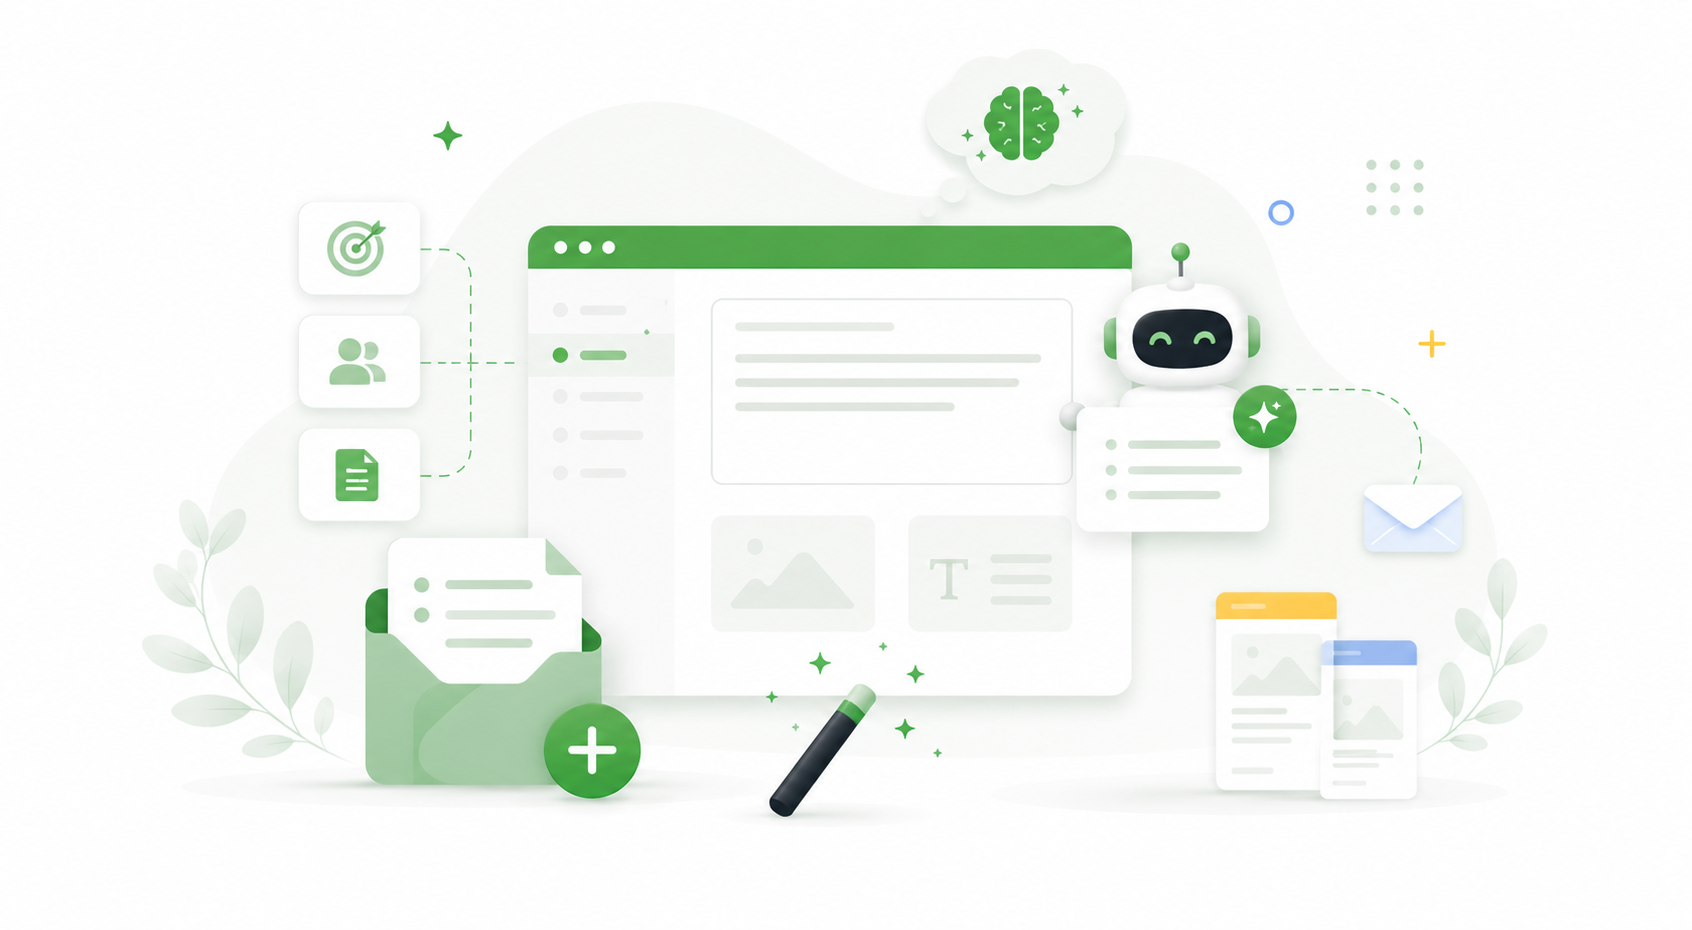
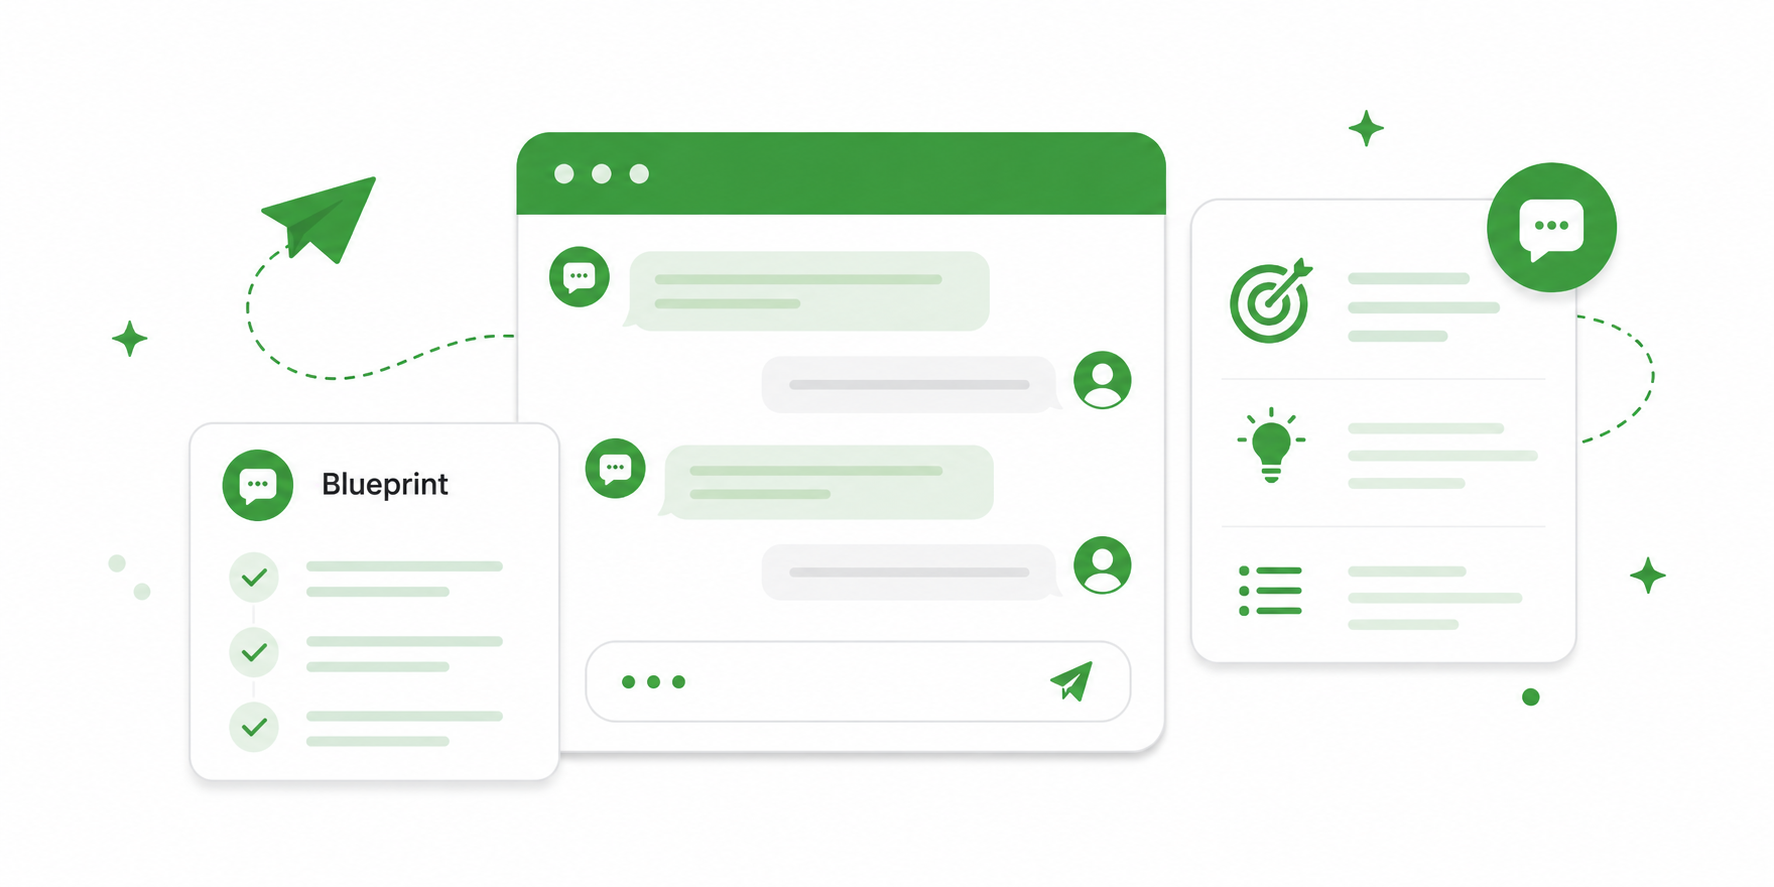
fix: update image imports for user blueprints in CampaignManagement and Template components

diff --git a/src/components/feature/CampaignManagement.tsx b/src/components/feature/CampaignManagement.tsx
@@ -11,7 +11,7 @@ import CommonSidePanel from "../common/CommonSidePanel";
 import { closePanel, openPanel } from "../../slices/panelSlice";
 import "./blueprint/Template.new.css";
 import { BpBanner } from "./blueprint/BpBanner";
-import campaignIllustration from "../../assets/images/campaign-illustration.png";
+import campaignIllustration from "../../assets/images/Campgains_old_user.png";
 import campaignIllustration2 from "../../assets/images/Campgains_old_user.png";
 import { FontAwesomeIcon } from "@fortawesome/react-fontawesome";
 import { faPlay, faArrowUpRightFromSquare } from "@fortawesome/free-solid-svg-icons";
@@ -61,7 +61,7 @@ interface Prompt {
 }
 
 interface Campaign {
-  id: number;
+   id: number;
   campaignName: string;
   promptId: number;
   clientId: number;

diff --git a/src/components/feature/blueprint/Template.new.tsx b/src/components/feature/blueprint/Template.new.tsx
@@ -23,7 +23,7 @@ import {
 } from "@fortawesome/free-solid-svg-icons";
 import { Tooltip } from "react-tooltip";
 import blueprintNewUserImage from "../../../assets/images/blueprint_new_user.png";
-import blueprintOldUserImage from "../../../assets/images/blueprint_old_user.png";
+import blueprintOldUserImage from "../../../assets/images/blueprint_new_user.png";
 import { BpBanner } from "./BpBanner";
 
 interface CampaignTemplate {
